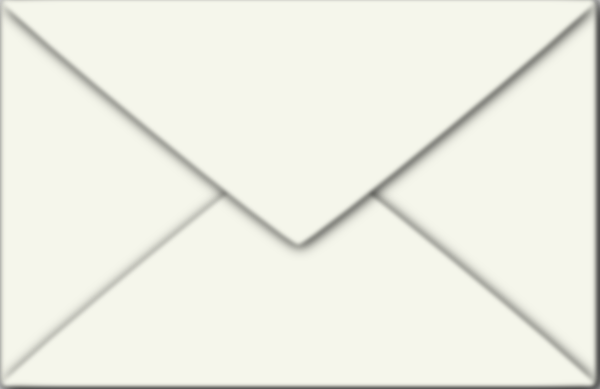
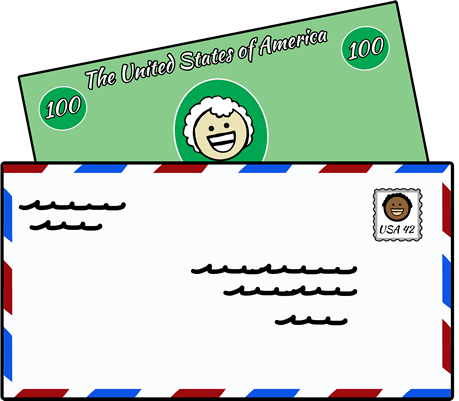
better error page

diff --git a/view/error/index.php b/view/error/index.php
@@ -1,3 +1,10 @@
-<div class="container">
-	<h2>Oh snap! An error happened!</h2>
+<div class="container well bitletDropShadow" style="text-align: center">
+	<h1>Oh snap! An error happened!</h1>
+	<br>
+	<a class="btn btn-primary btn-large" href="/">Go back to main page</a>
+
+	<hr>
+	<h3>Here's some money to cheer you up.</h3>
+	<br>
+	<a href="/"><img style="width:200px;" src="/img/envelope.png"/></a>
 </div>
